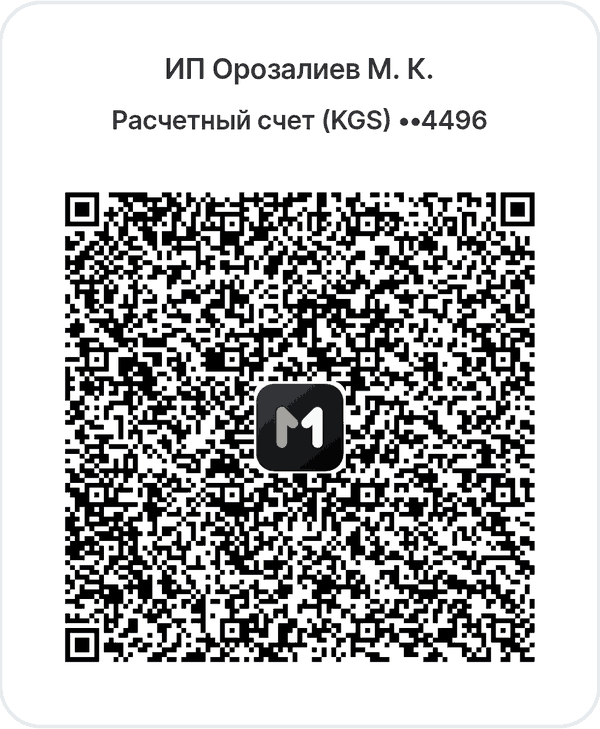
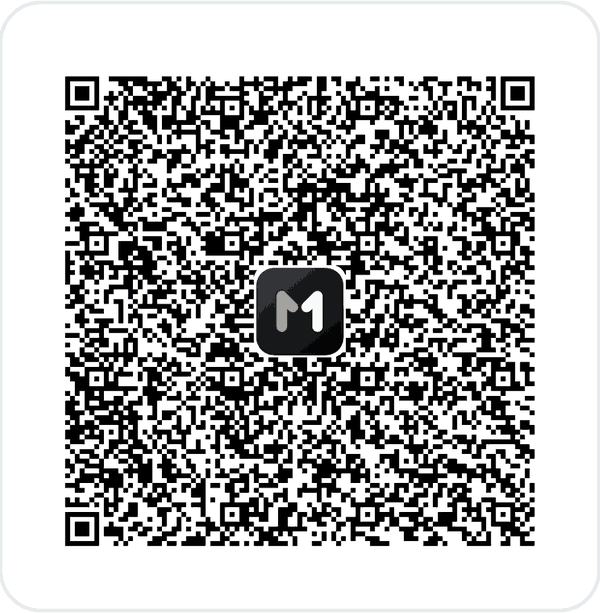
Без имени ИП
Claude-Session: https://claude.ai/code/session_01Jx6LeccEXJdHGmuEJJs3tw

diff --git a/pro/index.html b/pro/index.html
@@ -30,7 +30,7 @@
   .price small { font-size: 18px; font-weight: 500; color: var(--muted); }
   .meter { height: 6px; border-radius: 3px; background: #F3EDEE; overflow: hidden; margin-top: 8px; }
   .meter i { display: block; height: 100%; background: #E2A93B; border-radius: 3px; }
-  .qr { display: block; width: 100%; height: auto; aspect-ratio: 600 / 729; max-width: 260px; margin: 4px auto 0; border-radius: 16px; border: 1px solid var(--line); background: #fff; }
+  .qr { display: block; width: 100%; height: auto; aspect-ratio: 600 / 613; max-width: 260px; margin: 4px auto 0; border-radius: 16px; border: 1px solid var(--line); background: #fff; }
   .pay-row { display: flex; justify-content: space-between; gap: 12px; align-items: baseline; }
   .pay-row b { font-size: 18px; user-select: all; }
   ol.steps { margin: 0; padding-left: 22px; } ol.steps li { margin: 6px 0; }
@@ -107,7 +107,7 @@
         <li data-t="stepComment">Если в банке есть поле «Комментарий» — укажите номер тоя.</li>
         <li data-t="stepClaim">Вернитесь сюда и нажмите «Я оплатил» внизу.</li>
       </ol>
-      <img class="qr" id="qr" alt="QR для оплаты" width="600" height="729" hidden>
+      <img class="qr" id="qr" alt="QR для оплаты" width="600" height="613" hidden>
       <a class="chip" id="qrSave" download="toi-manager-qr.png" style="align-self:center" hidden data-t="qrSave">Сохранить QR в галерею</a>
       <p class="note" id="noPay" hidden data-t="noPay">Реквизиты для оплаты появятся здесь совсем скоро. Если нужно срочно — напишите на toimanager.app@gmail.com с номером тоя.</p>
     </div>
@@ -147,7 +147,7 @@
   const PAY = {
     qr: 'qr.png',                 // QR для приёма оплаты (MBank Бизнес, счёт ИП)
     link: 'https://pay.payqr.kg/qr/#00020101021132840012c2b.mbank.kg010202101610301200052444961132%D0%98%D0%9F%20%D0%9E%D1%80%D0%BE%D0%B7%D0%B0%D0%BB%D0%B8%D0%B5%D0%B2%20%D0%9C%D0%B0%D1%80%D0%B0%D1%82%20%D0%9A%D0%BE%D0%B6%D0%BE%D0%B3%D0%B5%D0%BB%D0%B4%D0%B8%D0%B5%D0%B2%D0%B8%D1%871302123422mbiz%3A48222517%3A124412495204999953034175925IP%20Orozaliev%20Marat%20Kozhog63047ebe',
-    to: 'ИП Орозалиев М. К.',
+    to: '',
   };
 
   // Кыргызские тексты — черновик, нужна вычитка носителем языка

diff --git a/vendors/index.html b/vendors/index.html
@@ -144,7 +144,7 @@
       <div><h3>Документы</h3><ul><li><a href="../pro/">Оплата Безлимита</a></li><li><a href="../privacy/">Конфиденциальность</a></li><li><a href="../delete-account/">Удаление аккаунта</a></li></ul></div>
       <div><h3>Связь</h3><ul><li><a class="mail" href="mailto:toimanager.app@gmail.com">toimanager.app@gmail.com</a></li></ul></div>
     </div>
-    <p class="legal">© 2026 ИП Орозалиев М. К., Бишкек, Кыргызстан</p>
+    <p class="legal">© 2026 Той Менеджер, Бишкек, Кыргызстан</p>
   </div>
 </footer>
 

diff --git a/ky/index.html b/ky/index.html
@@ -325,7 +325,7 @@
       <div><h3>Документтер</h3><ul><li><a href="../pro/?lang=ky">Безлимитти төлөө</a></li><li><a href="../privacy/">Купуялык</a></li><li><a href="../delete-account/">Аккаунтту өчүрүү</a></li></ul></div>
       <div><h3>Байланыш</h3><ul><li><a class="mail" href="mailto:toimanager.app@gmail.com">toimanager.app@gmail.com</a></li></ul></div>
     </div>
-    <p class="legal">© 2026 ЖИ Орозалиев М. К., Бишкек, Кыргызстан</p>
+    <p class="legal">© 2026 Той Менеджер, Бишкек, Кыргызстан</p>
   </div>
 </footer>
 

diff --git a/index.html b/index.html
@@ -325,7 +325,7 @@
       <div><h3>Документы</h3><ul><li><a href="pro/">Оплата Безлимита</a></li><li><a href="privacy/">Конфиденциальность</a></li><li><a href="delete-account/">Удаление аккаунта</a></li></ul></div>
       <div><h3>Связь</h3><ul><li><a class="mail" href="mailto:toimanager.app@gmail.com">toimanager.app@gmail.com</a></li></ul></div>
     </div>
-    <p class="legal">© 2026 ИП Орозалиев М. К., Бишкек, Кыргызстан</p>
+    <p class="legal">© 2026 Той Менеджер, Бишкек, Кыргызстан</p>
   </div>
 </footer>
 
